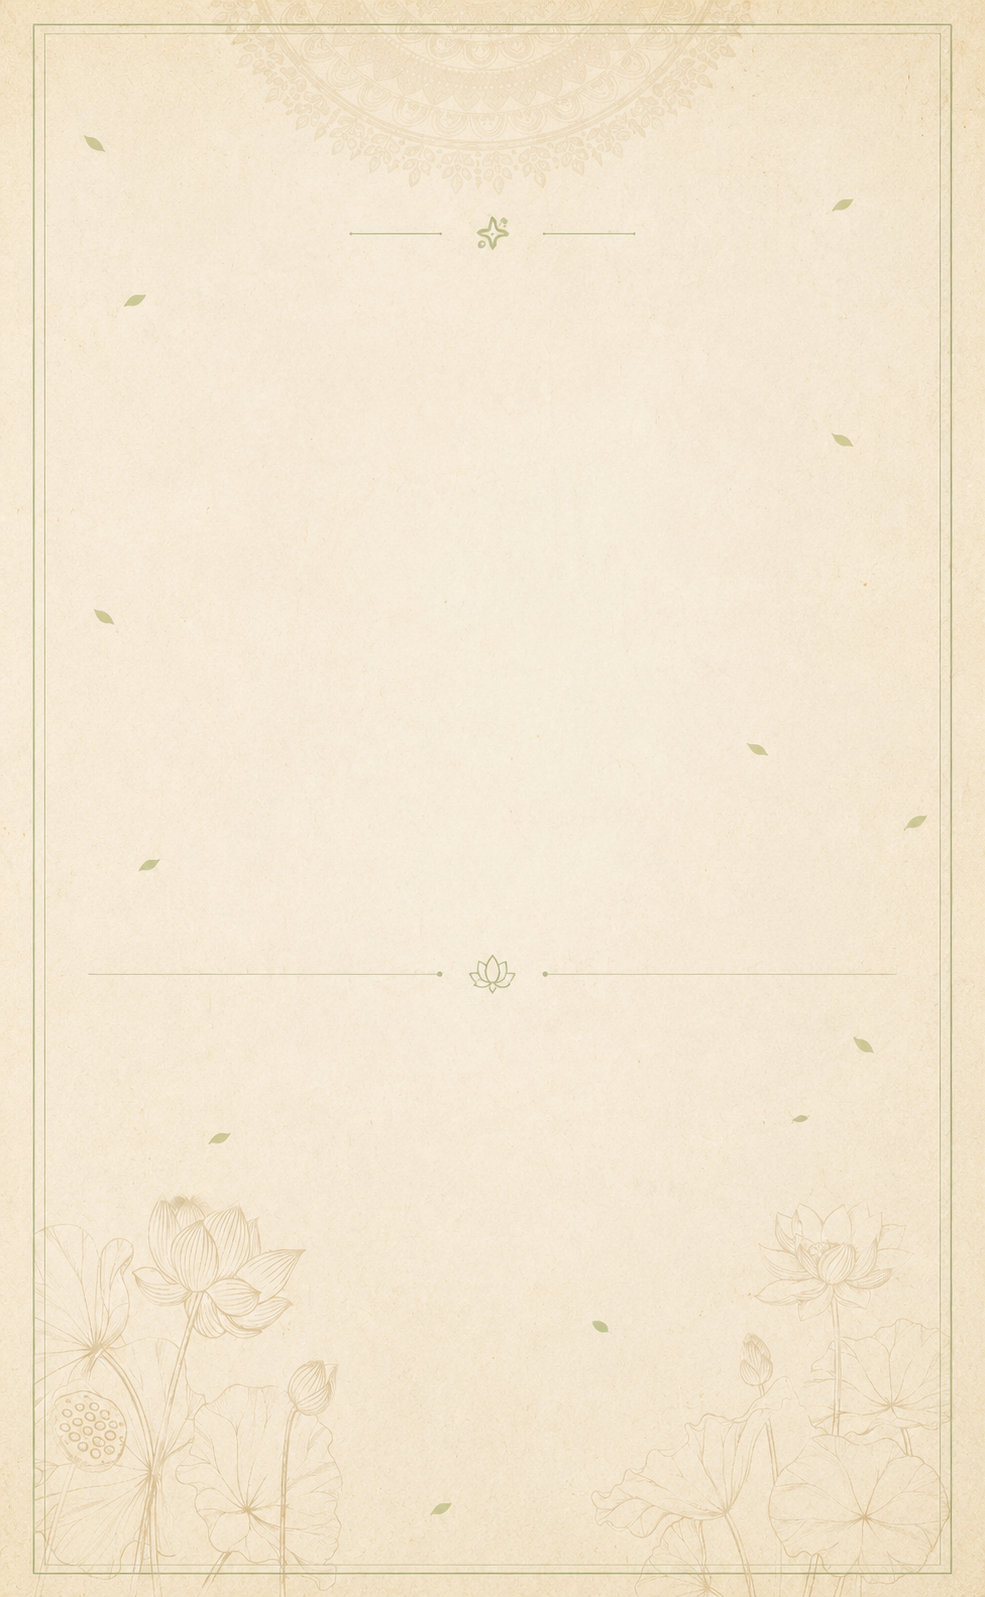
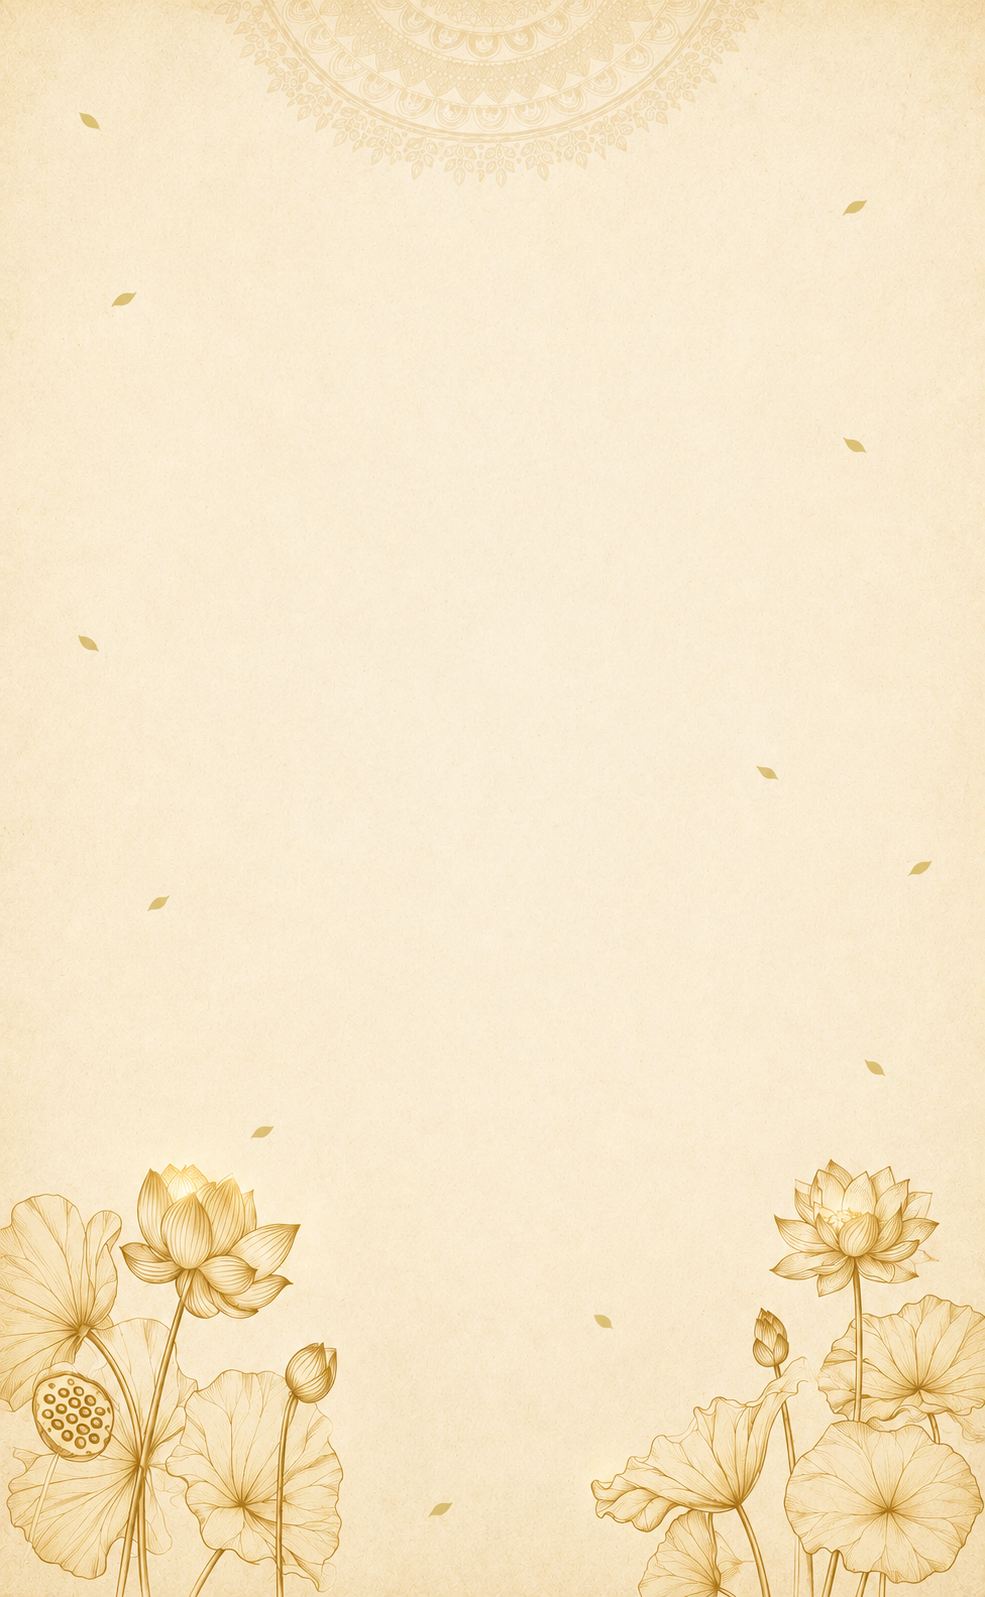
m

diff --git a/src/App.tsx b/src/App.tsx
@@ -160,27 +160,27 @@ function CountdownTimer({ isDark = false }: { isDark?: boolean }) {
           className="relative group"
         >
           <div
-            className={`relative w-[4.5rem] h-[6.5rem] sm:w-20 sm:h-28 md:w-32 md:h-44 rounded-t-full shadow-[0_15px_35px_-10px_rgba(0,0,0,0.15)] border flex flex-col items-center justify-center overflow-hidden transition-all duration-700 group-hover:-translate-y-3 ${isDark ? "bg-[#2d5a27] border-white/20" : "bg-white border-emerald-100/60"
-              }`}
+            className={`relative w-[4.5rem] h-[6.5rem] sm:w-20 sm:h-28 md:w-32 md:h-44 rounded-t-full shadow-[0_15px_35px_-10px_rgba(0,0,0,0.15)] flex flex-col items-center justify-center overflow-hidden transition-all duration-700 group-hover:-translate-y-3 ${isDark ? "bg-[#2d5a27] " : "bg-white "
+ }`}
           >
             <div
-              className={`absolute inset-1.5 sm:inset-2 md:inset-3 border-[0.5px] rounded-t-full pointer-events-none ${isDark ? "border-white/30" : "border-theme-300/50"
-                }`}
+              className={`absolute inset-1.5 sm:inset-2 md:inset-3 ] rounded-t-full pointer-events-none ${isDark ? "" : ""
+ }`}
             />
 
             <span
               className={`font-numeric text-2xl sm:text-3xl md:text-5xl leading-none relative z-10 drop-shadow-sm mt-3 sm:mt-4 md:mt-6 transition-transform duration-500 group-hover:scale-110 ${isDark ? "text-white" : "text-[#2d5a27]"
-                }`}
+ }`}
             >
               {Math.max(0, stat.value).toString().padStart(2, "0")}
             </span>
 
             <div className="w-full flex justify-center mt-2 sm:mt-3 md:mt-6 mb-1 sm:mb-2 relative z-10">
               <span
-                className={`text-[5px] sm:text-[6px] md:text-[11px] tracking-[0.2em] sm:tracking-[0.3em] md:tracking-[0.4em] font-bold px-2 sm:px-3 py-1 sm:py-1.5 rounded-full border shadow-sm whitespace-nowrap ${isDark
-                  ? "bg-white/10 text-white border-white/20"
-                  : "bg-stone-50 text-stone-500 border-emerald-100/50"
-                  }`}
+                className={`text-[5px] sm:text-[6px] md:text-[11px] tracking-[0.2em] sm:tracking-[0.3em] md:tracking-[0.4em] font-bold px-2 sm:px-3 py-1 sm:py-1.5 rounded-full shadow-sm whitespace-nowrap ${isDark
+ ? "bg-white/10 text-white "
+ : "bg-stone-50 text-stone-500 "
+ }`}
               >
                 {stat.label}
               </span>
@@ -188,7 +188,7 @@ function CountdownTimer({ isDark = false }: { isDark?: boolean }) {
 
             <div
               className={`absolute bottom-2 sm:bottom-3 md:bottom-4 left-1/2 -translate-x-1/2 w-[3px] h-[3px] sm:w-1 sm:h-1 md:w-1.5 md:h-1.5 rotate-45 ${isDark ? "bg-white/40" : "bg-[#61a85c]"
-                }`}
+ }`}
             />
           </div>
         </motion.div>
@@ -238,7 +238,7 @@ function Gallery() {
             {marqueeImages.map((img, i) => (
               <div
                 key={`${img}-${i}`}
-                className="relative w-[280px] h-[380px] md:w-[350px] md:h-[480px] shrink-0 overflow-hidden rounded-[2.5rem] shadow-[0_20px_50px_-15px_rgba(45,90,39,0.15)] border border-emerald-100/30 group"
+                className="relative w-[280px] h-[380px] md:w-[350px] md:h-[480px] shrink-0 overflow-hidden rounded-[2.5rem] shadow-[0_20px_50px_-15px_rgba(45,90,39,0.15)] group"
               >
                 <div className="absolute inset-0 bg-black/10 group-hover:bg-transparent transition-colors duration-700 z-10" />
                 <img
@@ -247,7 +247,7 @@ function Gallery() {
                   className="w-full h-full object-cover transition-transform duration-[2s] group-hover:scale-105"
                   loading="lazy"
                 />
-                <div className="absolute inset-4 border border-white/20 rounded-[2rem] z-20 pointer-events-none group-hover:inset-6 transition-all duration-700" />
+                <div className="absolute inset-4 rounded-[2rem] z-20 pointer-events-none group-hover:inset-6 transition-all duration-700" />
               </div>
             ))}
           </motion.div>
@@ -366,7 +366,7 @@ export default function WeddingInvitation() {
   return (
     <main
       className={`dl-manel-bold h-[100dvh] w-full bg-[#fae9cb] transition-all duration-1000 ${isOpened ? "overflow-y-auto overflow-x-hidden" : "overflow-hidden flex items-center justify-center"
-        } relative scroll-smooth`}
+ } relative scroll-smooth`}
     >
       <FloatingPetals />
 
@@ -387,7 +387,7 @@ export default function WeddingInvitation() {
               autoPlay
               loop={!hasStarted}
               className={`w-full h-full object-cover transition-all duration-[2000ms] ease-out ${!hasStarted ? "blur-md scale-105 opacity-80" : "blur-0 scale-100 opacity-100"
-                }`}
+ }`}
               onEnded={() => setIsOpened(true)}
               onError={(e) => { console.error("Video error:", e); setIsOpened(true); }}
             >
@@ -498,7 +498,7 @@ export default function WeddingInvitation() {
                   initial={{ opacity: 0 }}
                   animate={{ opacity: 1 }}
                   onClick={() => setIsOpened(true)}
-                  className="absolute bottom-10 right-10 z-[110] px-8 py-3 bg-white/10 backdrop-blur-md text-white text-xs tracking-[0.35em] rounded-full border border-white/20 hover:bg-white/20 transition-all font-bold"
+                  className="absolute bottom-10 right-10 z-[110] px-8 py-3 bg-white/10 backdrop-blur-md text-white text-xs tracking-[0.35em] rounded-full hover:bg-white/20 transition-all font-bold"
                 >
                   ආරාධනයට පිවිසෙන්න
                 </motion.button>
@@ -516,7 +516,7 @@ export default function WeddingInvitation() {
               initial={{ opacity: 0, x: 20 }}
               animate={{ opacity: 1, x: 0 }}
               onClick={() => setIsOpened(false)}
-              className="fixed top-6 right-6 z-50 bg-white/80 backdrop-blur-md p-3 rounded-full shadow-lg border border-emerald-100 text-[#2d5a27] hover:bg-emerald-50 transition-colors"
+              className="fixed top-6 right-6 z-50 bg-white/80 backdrop-blur-md p-3 rounded-full shadow-lg text-[#2d5a27] hover:bg-emerald-50 transition-colors"
             >
               <div className="flex flex-col items-center">
                 <div className="text-[11px] tracking-widest font-bold">වසා දමන්න</div>
@@ -530,7 +530,7 @@ export default function WeddingInvitation() {
                 aria-hidden="true"
               />
 
-              <div className="relative z-10 w-full max-w-5xl px-6 text-center">
+              <div className="relative z-10 w-full max-w-5xl px-6 text-center mt-12 md:mt-0">
                 {guestName && (
                   <motion.p
                     initial={{ opacity: 0, y: -10 }}
@@ -540,13 +540,6 @@ export default function WeddingInvitation() {
                     {guestName}
                   </motion.p>
                 )}
-                <motion.p
-                  initial={{ opacity: 0, y: -10 }}
-                  animate={{ opacity: 1, y: 0 }}
-                  className="text-sm md:text-base tracking-[0.6em] font-bold text-[#2d5a27] drop-shadow-[0_0_10px_rgba(255,255,255,0.8)]"
-                >
-                  විවාහ ආරාධනයයි!
-                </motion.p>
 
                 <motion.div
                   initial={{ opacity: 0, y: 20 }}
@@ -573,23 +566,11 @@ export default function WeddingInvitation() {
                   initial={{ opacity: 0, y: 16 }}
                   animate={{ opacity: 1, y: 0 }}
                   transition={{ delay: 0.35, duration: 0.8 }}
-                  className="mt-4 md:mt-12 space-y-4 md:space-y-5"
+                  className="mt-4 md:mt-12"
                 >
-                  <p className="text-sm md:text-base tracking-[0.35em] text-[#2d5a27] font-bold drop-shadow-[0_0_8px_rgba(255,255,255,0.8)]">
-                    {INVITATION.date.displayLong}
-                  </p>
-
-                  <p className="text-[#2d5a27]/70 text-sm md:text-base tracking-[0.15em] font-medium leading-loose max-w-2xl mx-auto">
+                  <p className="mt-1 md:mt-5 text-[#2d5a27]/70 text-sm md:text-base tracking-[0.15em] font-medium leading-loose max-w-2xl mx-auto">
                     අපගේ ජීවිතයේ අමතක නොවන සුබ මොහොත ඔබ සමඟ බෙදා ගැනීමට කැමැත්තෙමු!
                   </p>
-
-                  <a
-                    href="#details"
-                    className="inline-flex items-center justify-center gap-2 mt-6 px-8 py-4 bg-[#2d5a27] text-white text-sm md:text-base font-bold tracking-[0.4em] shadow-xl hover:bg-black transition-colors"
-                  >
-                    විස්තර බලන්න
-                    <ChevronDown className="w-4 h-4" />
-                  </a>
                 </motion.div>
               </div>
 
@@ -613,8 +594,8 @@ export default function WeddingInvitation() {
               id="details"
               className="relative pt-8 md:pt-20 pb-12 md:pb-32 w-full flex flex-col items-center bg-transparent overflow-hidden"
             >
-              <div className="absolute inset-4 md:inset-8 border-[1.5px] border-[#2d5a27]/20 pointer-events-none z-10" />
-              <div className="absolute inset-5 md:inset-10 border-[0.5px] border-[#61a85c]/10 pointer-events-none z-10" />
+              <div className="absolute inset-4 md:inset-8 ] pointer-events-none z-10" />
+              <div className="absolute inset-5 md:inset-10 ] pointer-events-none z-10" />
 
               <div className="max-w-[1100px] w-full flex flex-col items-center text-center relative z-20 px-6">
                 <motion.div
@@ -645,22 +626,10 @@ export default function WeddingInvitation() {
                     </h3>
 
                     <p className="text-slate-700 max-w-2xl mx-auto pt-2">
-                      සමඟ අතිනත ගන්නා සොඳුරු මොහොත, ඔබගේ ආශීර්වාදයෙන් වර්ණවත් කර ගැනීම සඳහා,
+                      සමඟ අතිනත ගන්නා සොඳුරු මොහොත, ඔබගේ ආශීර්වාදයෙන් වර්ණවත් කර ගැනීමට සෙනෙහසින් ඇරයුම් කරන්නෙමු.
                     </p>
 
-                    <div className="py-6 my-4 border-t border-b border-[#a2c5a0]/50 space-y-3 font-semibold text-[#2d5a27]">
-                      <p>වර්ෂ 2026 ක් වූ ජූලි මස 23 වන දින</p>
-                      <p>පෙරවරු 9.30 සිට පස්වරු 3.30 දක්වා,</p>
-                      <p>Grandeeza Hotel - Negombo හිදී පැවැත්වෙන මංගල උත්සවයට</p>
-                      <p className="text-xl md:text-2xl font-bold text-[#800000] my-2">
-                        {guestName ? guestName : "ඔබට / ඔබ දෙපලට / ඔබ සැමට"}
-                      </p>
-                      <p className="text-lg md:text-xl font-bold">සෙනෙහසින් සිතින් ඇරයුම් කරන්නෙමු.</p>
-                    </div>
 
-                    <p className="text-[#3f7a39] font-bold text-sm md:text-base">
-                      (පෝරුවේ චාරිත්ර පෙ.ව. 10.10 ට)
-                    </p>
 
                     <p className="text-[#2d5a27] font-bold text-lg md:text-xl mt-6">
                       ඔබගේ සහභාගිත්වය අප දෙදෙනාට මහත් ආශීර්වාදයකි!
@@ -684,9 +653,9 @@ export default function WeddingInvitation() {
                     initial={{ opacity: 0, y: 24 }}
                     whileInView={{ opacity: 1, y: 0 }}
                     viewport={{ once: true }}
-                    className="relative z-20 w-full max-w-[560px] bg-white p-8 md:p-14 shadow-[0_30px_70px_-15px_rgba(45,90,39,0.1)] border border-[#a2c5a0]/30 flex flex-col items-center justify-center text-center"
+                    className="relative z-20 w-full max-w-[560px] bg-white p-8 md:p-14 shadow-[0_30px_70px_-15px_rgba(45,90,39,0.1)] flex flex-col items-center justify-center text-center"
                   >
-                    <div className="absolute inset-2 border-[0.5px] border-[#3f7a39]/30 pointer-events-none" />
+                    <div className="absolute inset-2 ] pointer-events-none" />
 
                     <div className="space-y-5 mb-10">
                       <div className="flex flex-col items-center gap-2">
@@ -698,7 +667,7 @@ export default function WeddingInvitation() {
 
                     <div className="py-2 flex items-center justify-center w-full relative">
                       <div className="absolute inset-0 flex items-center" aria-hidden="true">
-                        <div className="w-full border-t border-[#a2c5a0]/50" />
+                        <div className="w-full " />
                       </div>
                       <div className="relative flex justify-center">
                         <span className="bg-white px-6 text-4xl text-[#3f7a39]">සමඟ</span>
@@ -715,7 +684,7 @@ export default function WeddingInvitation() {
 
                     <div className="mt-12 grid grid-cols-1 gap-6 w-full text-left">
                       <div className="flex items-start gap-4">
-                        <div className="w-10 h-10 rounded-full border border-[#3f7a39]/20 flex items-center justify-center shrink-0">
+                        <div className="w-10 h-10 rounded-full flex items-center justify-center shrink-0">
                           <Calendar className="w-4 h-4 text-[#3f7a39]" />
                         </div>
                         <div>
@@ -729,7 +698,7 @@ export default function WeddingInvitation() {
                       </div>
 
                       <div className="flex items-start gap-4">
-                        <div className="w-10 h-10 rounded-full border border-[#2d5a27]/20 flex items-center justify-center shrink-0">
+                        <div className="w-10 h-10 rounded-full flex items-center justify-center shrink-0">
                           <Clock className="w-4 h-4 text-[#2d5a27]" />
                         </div>
                         <div>
@@ -743,7 +712,7 @@ export default function WeddingInvitation() {
                       </div>
 
                       <div className="flex items-start gap-4">
-                        <div className="w-10 h-10 rounded-full border border-[#2d5a27]/20 flex items-center justify-center shrink-0">
+                        <div className="w-10 h-10 rounded-full flex items-center justify-center shrink-0">
                           <MapPin className="w-4 h-4 text-[#2d5a27]" />
                         </div>
                         <div>
@@ -753,6 +722,14 @@ export default function WeddingInvitation() {
                           <div className="text-sm md:text-base text-[#2d5a27] tracking-wide font-bold">
                             {INVITATION.venue.name}, {INVITATION.venue.city}
                           </div>
+                          <a 
+                            href={INVITATION.venue.googleMapsLink}
+                            target="_blank"
+                            rel="noopener noreferrer"
+                            className="mt-1.5 inline-flex text-[10px] md:text-xs text-[#3f7a39] hover:text-[#1b4332] font-bold tracking-widest uppercase border-b border-[#3f7a39]/30 hover:border-[#1b4332] transition-colors pb-0.5"
+                          >
+                            View on Google Maps
+                          </a>
                         </div>
                       </div>
                     </div>
@@ -851,9 +828,9 @@ export default function WeddingInvitation() {
                   whileInView={{ opacity: 1, y: 0 }}
                   transition={{ duration: 1.1, ease: [0.16, 1, 0.3, 1] }}
                   viewport={{ once: true }}
-                  className="relative w-full max-w-[650px] bg-white p-6 md:p-10 shadow-[0_40px_100px_-25px_rgba(0,0,0,0.12)] border border-slate-100 flex flex-col items-center"
+                  className="relative w-full max-w-[650px] bg-white p-6 md:p-10 shadow-[0_40px_100px_-25px_rgba(0,0,0,0.12)] flex flex-col items-center"
                 >
-                  <div className="w-full border border-slate-300 rounded-[1.5rem] p-6 md:p-8 flex flex-col items-center">
+                  <div className="w-full rounded-[1.5rem] p-6 md:p-8 flex flex-col items-center">
                     <h3 className="text-2xl md:text-4xl text-slate-800 mb-8 text-center">
                       ඔබ පැමිණෙන්නේද?
                     </h3>
@@ -869,7 +846,7 @@ export default function WeddingInvitation() {
                             setRsvpStatus("idle");
                             setRsvpForm((prev) => ({ ...prev, name: e.target.value }));
                           }}
-                          className="w-full bg-white border border-slate-200 rounded-lg px-4 py-3 text-slate-800 placeholder:text-slate-300 focus:outline-none focus:ring-1 focus:ring-slate-400 transition-all text-base font-numeric"
+                          className="w-full bg-white rounded-lg px-4 py-3 text-slate-800 placeholder:text-slate-300 focus:outline-none focus:ring-1 focus:ring-slate-400 transition-all text-base font-numeric"
                           required
                         />
                       </div>
@@ -907,7 +884,7 @@ export default function WeddingInvitation() {
                       {(rsvpStatus === "success" || rsvpStatus === "error") && (
                         <p
                           className={`text-xs text-center font-semibold ${rsvpStatus === "success" ? "text-emerald-600" : "text-red-500"
-                            }`}
+ }`}
                         >
                           {rsvpStatus === "success"
                             ? "ඔබගේ පැමිණීම තහවුරු කිරීම සාර්ථකව යවා ඇත."
@@ -947,9 +924,9 @@ export default function WeddingInvitation() {
                       whileInView={{ opacity: 1, y: 0 }}
                       viewport={{ once: true }}
                       transition={{ delay: 0.2, duration: 0.8 }}
-                      className="bg-white p-10 md:p-16 shadow-[0_60px_100px_-40px_rgba(45,90,39,0.1)] border border-[#a2c5a0]/30 relative group"
+                      className="bg-white p-10 md:p-16 shadow-[0_60px_100px_-40px_rgba(45,90,39,0.1)] relative group"
                     >
-                      <div className="absolute inset-2 border-[0.5px] border-[#3f7a39]/20 pointer-events-none group-hover:border-[#3f7a39]/40 transition-colors duration-700" />
+                      <div className="absolute inset-2 ] pointer-events-none transition-colors duration-700" />
 
                       <div className="space-y-12 relative z-10">
                         <div className="space-y-6">
@@ -959,35 +936,6 @@ export default function WeddingInvitation() {
                           <div className="h-0.5 w-12 bg-[#a2c5a0]/60 mx-auto" />
                         </div>
 
-                        <div className="space-y-10">
-                          <div className="flex items-start gap-8">
-                            <div className="w-12 h-12 rounded-full border border-[#3f7a39]/20 flex items-center justify-center shrink-0">
-                              <MapPin className="w-5 h-5 text-[#3f7a39]" />
-                            </div>
-                            <div className="space-y-3">
-                              <h4 className="text-[#2d5a27]/40 font-bold text-xs tracking-[0.5em]">
-                                ගමනාන්තය
-                              </h4>
-                              <p className="text-xl md:text-2xl text-[#2d5a27] leading-relaxed tracking-wide font-bold">
-                                {INVITATION.venue.name}, {INVITATION.venue.city}
-                              </p>
-                            </div>
-                          </div>
-
-                          <div className="flex items-start gap-8">
-                            <div className="w-12 h-12 rounded-full border border-[#3f7a39]/20 flex items-center justify-center shrink-0">
-                              <Clock className="w-5 h-5 text-[#3f7a39]" />
-                            </div>
-                            <div className="space-y-1">
-                              <h4 className="text-[#2d5a27]/40 font-bold text-xs tracking-[0.5em]">
-                                පෝරුව චාරිත්ර
-                              </h4>
-                              <p className="text-xl md:text-2xl text-[#2d5a27] leading-relaxed tracking-wide font-bold">
-                                {INVITATION.time.ceremonyStart}
-                              </p>
-                            </div>
-                          </div>
-                        </div>
 
                         <button
                           onClick={() => window.open(INVITATION.venue.googleMapsLink, "_blank")}
@@ -1061,7 +1009,7 @@ export default function WeddingInvitation() {
         initial={{ opacity: 0, scale: 0.8 }}
         animate={{ opacity: 1, scale: 1 }}
         onClick={toggleMusic}
-        className="fixed bottom-6 right-6 z-[60] bg-white text-[#87937a] p-3 rounded-full shadow-lg border border-[#ccbaa2]/40 hover:bg-[#87937a]/10 transition-colors"
+        className="fixed bottom-6 right-6 z-[60] bg-white text-[#87937a] p-3 rounded-full shadow-lg hover:bg-[#87937a]/10 transition-colors"
       >
         <div className="flex flex-col items-center">
           {isPlaying ? (

diff --git a/remove_borders.py b/remove_borders.py
@@ -1,0 +1,25 @@
+import re
+
+with open('src/App.tsx', 'r', encoding='utf-8') as f:
+    text = f.read()
+
+def replacer(match):
+    class_str = match.group(1)
+    
+    # Remove border classes
+    # regex matches boundary, optional group-hover:, border, and optional suffix
+    # we don't want to break the quotes or backticks though
+    cleaned = re.sub(r'\b(?:group-hover:)?border(?:-[a-zA-Z0-9_/#\.\[\]\-]+)?\b', '', class_str)
+    
+    # remove double spaces
+    cleaned = re.sub(r' +', ' ', cleaned)
+    
+    return match.group(0).replace(class_str, cleaned)
+
+new_text = re.sub(r'className=\"([^\"]+)\"', replacer, text)
+new_text = re.sub(r'className=\{`([^`]+)`\}', replacer, new_text)
+
+with open('src/App.tsx', 'w', encoding='utf-8') as f:
+    f.write(new_text)
+
+print("Borders removed")

diff --git a/check_borders.py b/check_borders.py
@@ -1,0 +1,17 @@
+import re
+
+with open('src/App.tsx', 'r', encoding='utf-8') as f:
+    text = f.read()
+
+classes_matches = re.findall(r'(?:className=\"([^\"]+)\"|className=\{`([^`]+)`\})', text)
+classes_str = ""
+for m in classes_matches:
+    classes_str += " " + (m[0] or m[1])
+
+border_classes = set()
+for cls in classes_str.split():
+    if 'border' in cls:
+        border_classes.add(cls)
+
+for bc in border_classes:
+    print(bc)